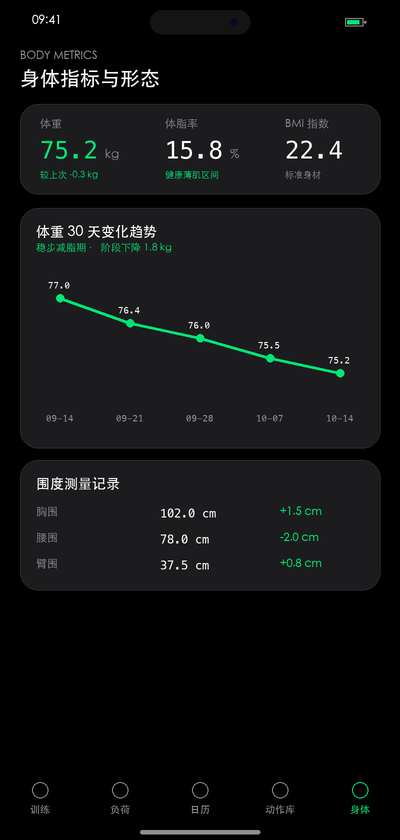
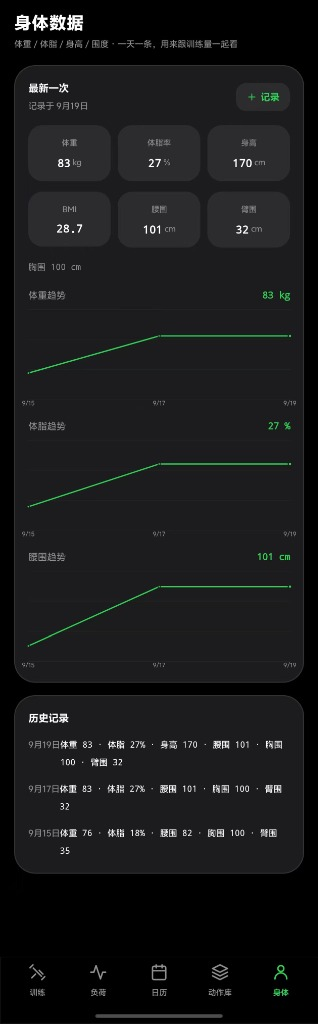
docs: 替换为真实 App 5大页面长截图，移除 demo gif，更新社交封面图与中英 README

diff --git a/README_EN.md b/README_EN.md
@@ -23,15 +23,9 @@ Follows **Apple Human Interface Guidelines (HIG)** obsidian dark mode aesthetic 
 
 ### 📱 Preview (Screenshots)
 
-| Workout Logging | Rest Timer Capsule | Overload & E1RM PR | Calendar & Habit | Body Metric Trend |
+| Workout | Overload & Analytics | Calendar & Streak | Exercise Library | Body Metrics |
 | :---: | :---: | :---: | :---: | :---: |
-| <img src="docs/screenshots/01_workout.png" width="160"/> | <img src="docs/screenshots/02_rest_timer.png" width="160"/> | <img src="docs/screenshots/03_analytics.png" width="160"/> | <img src="docs/screenshots/04_calendar.png" width="160"/> | <img src="docs/screenshots/05_body.png" width="160"/> |
-
-<br/>
-
-### 🎬 Quick Demo
-
-<img src="docs/demo.gif" width="360" alt="Rep Demo GIF"/>
+| <img src="docs/screenshots/01_workout.png" height="460"/> | <img src="docs/screenshots/02_analytics.png" height="460"/> | <img src="docs/screenshots/03_calendar.png" height="460"/> | <img src="docs/screenshots/04_library.png" height="460"/> | <img src="docs/screenshots/05_body.png" height="460"/> |
 
 </div>
 

diff --git a/README.md b/README.md
@@ -23,15 +23,9 @@
 
 ### 📱 界面预览 (Screenshots)
 
-| 训练记录主屏 | 悬浮组间休息胶囊 | 渐进负荷 & E1RM PR | 每日日历 & 习惯 | 身体指标趋势 |
+| 训练记录 (Workout) | 负荷与表现 (Overload) | 日历打卡 (Calendar) | 动作库 (Library) | 身体数据 (Body) |
 | :---: | :---: | :---: | :---: | :---: |
-| <img src="docs/screenshots/01_workout.png" width="160"/> | <img src="docs/screenshots/02_rest_timer.png" width="160"/> | <img src="docs/screenshots/03_analytics.png" width="160"/> | <img src="docs/screenshots/04_calendar.png" width="160"/> | <img src="docs/screenshots/05_body.png" width="160"/> |
-
-<br/>
-
-### 🎬 快速演示 (Demo)
-
-<img src="docs/demo.gif" width="360" alt="Rep 操作演示"/>
+| <img src="docs/screenshots/01_workout.png" height="460"/> | <img src="docs/screenshots/02_analytics.png" height="460"/> | <img src="docs/screenshots/03_calendar.png" height="460"/> | <img src="docs/screenshots/04_library.png" height="460"/> | <img src="docs/screenshots/05_body.png" height="460"/> |
 
 </div>
 
